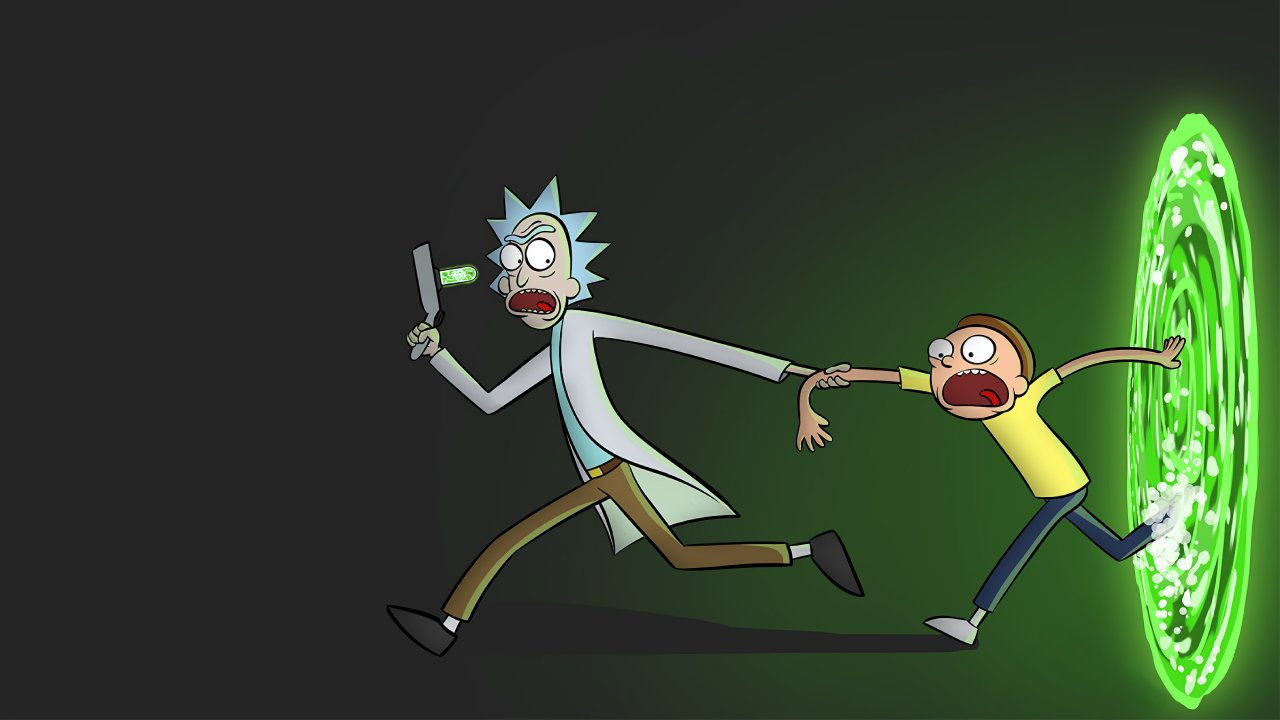
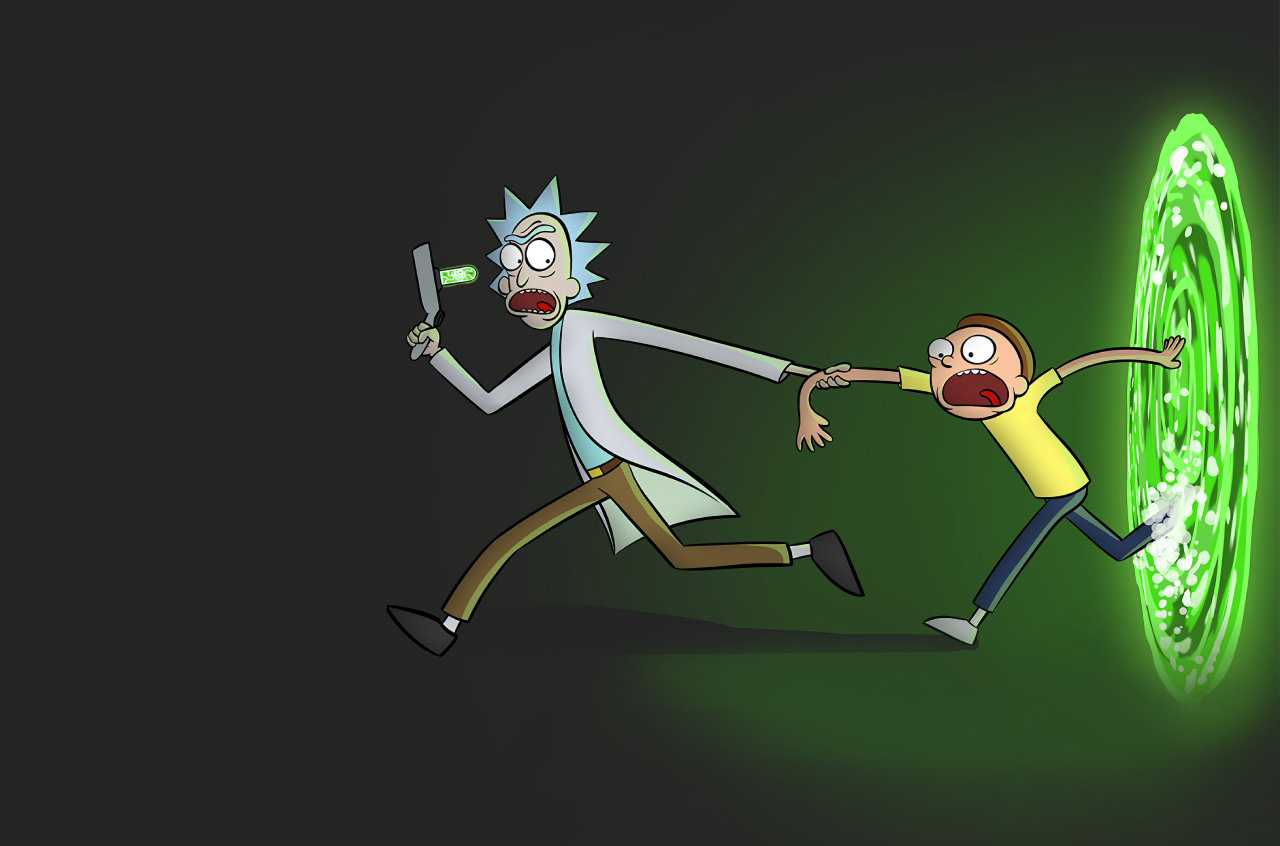
Full Menu

Changed region(s): [[0.3125, 0.1222, 1.0, 1.0]]

diff --git a/src/style.css b/src/style.css
@@ -10,8 +10,8 @@
 } */
 
 body {
-  background: url('img/portal.jpg') no-repeat;
-  background-size: cover;
+  /* background: url('img/portal.jpg') no-repeat;
+  background-size: cover; */
   font-family: 'Special Elite', cursive;
   width: 100%;
   /* display: flex;
@@ -20,17 +20,39 @@ body {
 }
 
 header {
-  height: 125px;
+  display: flex;
+  height: 20%;
   width: 100%;
   background-color: #000;
-  padding: 10px;
+  padding: 30px;
 }
 
-/* main {
-  flex: auto;
+header h1 {
+    color: #90C944;
+    /* padding-top: 50px; */
+    font-size: 50px;
+    /* display: inline-block; */
+    font-family: 'Get Schwifty';
+    align-items: center;
+    animation-name: entrar;
+    animation-duration: 20s;
+    animation-iteration-count: infinite;
+}
+
+header .menuIcon a:active img {
+  transform: rotate(90deg);
+  transition: all .3s ease-in-out 0s;
+}
+
+main {
+  align-items: stretch;
+  display: flex;
+  flex-flow: row wrap;
+  height: 100%;
+  /* flex: auto;
   width: 100%;
-  align-items: flex-end;
-} */
+  align-items: flex-end; */
+} 
 
 @keyframes entrar {
   0%{transform: translate(0px);}
@@ -40,7 +62,7 @@ header {
   100%{transform: translate(0px);}
 }
 
-h1 {
+/* h1 {
   color: #90C944;
   padding-top: 50px;
   font-size: 50px;
@@ -49,11 +71,11 @@ h1 {
   animation-name: entrar;
   animation-duration: 20s;
   animation-iteration-count: infinite;
-}
+} */
 
 .btn-menu {
-  background: url('img/menu-icon.png') no-repeat; 
-  background-size: cover;
+  /* background: url('img/menu-icon.png') no-repeat; 
+  background-size: cover; */
   border-radius: 20px;
   width: 80px;
   height: 80px;
@@ -74,25 +96,30 @@ h1 {
 
 .nav {
   width: 30%;
+  /* height: 100%; */
+  height: 895px;
   text-align: center;
   background-color: #11AFC9;
-  font-size: 18px;
-  margin-top: -12px;
+  font-size: 30px;
+  /* margin-top: -12px; */
   animation-name: colors-nav;
   animation-duration: 4s;
   animation-iteration-count: infinite;
-  border-radius: 10px;
+  /* border-radius: 10px; */
 }
 
 .nav ul {
   list-style: none;
-  padding: 10px;
+  padding: 20px;
 }
 
 .nav li {
   padding: 8px;
 }
 
+nav li span{
+
+}
 .nav .itemList li {
   display: block;
 }
@@ -105,8 +132,20 @@ h1 {
   display: block;
 }
 
+ul .show {
+  text-align: left;
+  margin-left: 170px;
+}
+/* 
 li:hover {
-  background-color: rgba(0, 0, 0, 0.5);
+  background-color: rgba(0, 0, 0);
+   color: #fff; 
+  cursor: pointer;
+} */
+
+ul li:hover {
+  background-color: rgba(0, 0, 0,0.1);
+  /* color: #fff; */
   cursor: pointer;
 }
 
@@ -115,10 +154,9 @@ a {
   color: #000;
 }
 
-a:hover {
+/* a:hover {
   color: #fff;
-  font-size: 20px;
-}
+} */
 
 .enable-menu {
   display: block;
@@ -128,8 +166,26 @@ a:hover {
   display: none;
 }
 
-label:hover {
+/* label:hover {
   color: #fff;
+} */
+
+input{
+  position: relative;
+  left: -10px;
+}
+
+#content{
+  background: url('img/portal.jpg') no-repeat;
+  background-size: 100%;
+  /* flex-grow: 1; */
+  /* background-color: #444444; */
+  flex-grow: 1;
+  height: 895px;
+  padding: 25px;
+  width: auto;
+  color: rgb(255, 255, 255);
+  font-size: 30px;  
 }
 
 @font-face {

diff --git a/src/index.html b/src/index.html
@@ -14,11 +14,16 @@
   <body>
 
     <header>
-      <button class="btn-menu" id="btn-menu"></button>
-      
+      <div class="menuIcon">
+      <!-- <button class="btn-menu" id="btn-menu"></button> -->
+        <a class="btn-menu" id="btn-menu" href="#"><img src="img/menu-icon.png" alt="Menu"></a>
+      </div>     
       <h1>Rick and Morty</h1>
+    </header>
 
-      <div class="container-nav">
+    <main>
+      <!-- <div class="container-nav"> -->
+        <!-- <nav class="nav disable-menu" id="nav"> -->
         <nav class="nav disable-menu" id="nav">
           <ul>
             <li><a href="#">Premise</a></li>
@@ -43,17 +48,18 @@
                 <a target="_blank" href="https://www.instagram.com/rickandmorty/?hl=es"><img src="img/instagram.png" alt="instagram"></a></li>
           </ul>
         </nav>
-      </div>
 
-    </header>
+        <div id="content">
+          Aquí va nuestra info.
+        </div>
 
-    <!-- <main>
-      
-    </main> -->
+      <!-- </div> -->
+    </main>
 
     <div id="root"></div>
+
     <script src="main.js" type="module"></script>
     <script src="menu.js"></script>
 
   </body>
-  </html>>
+  </html>
